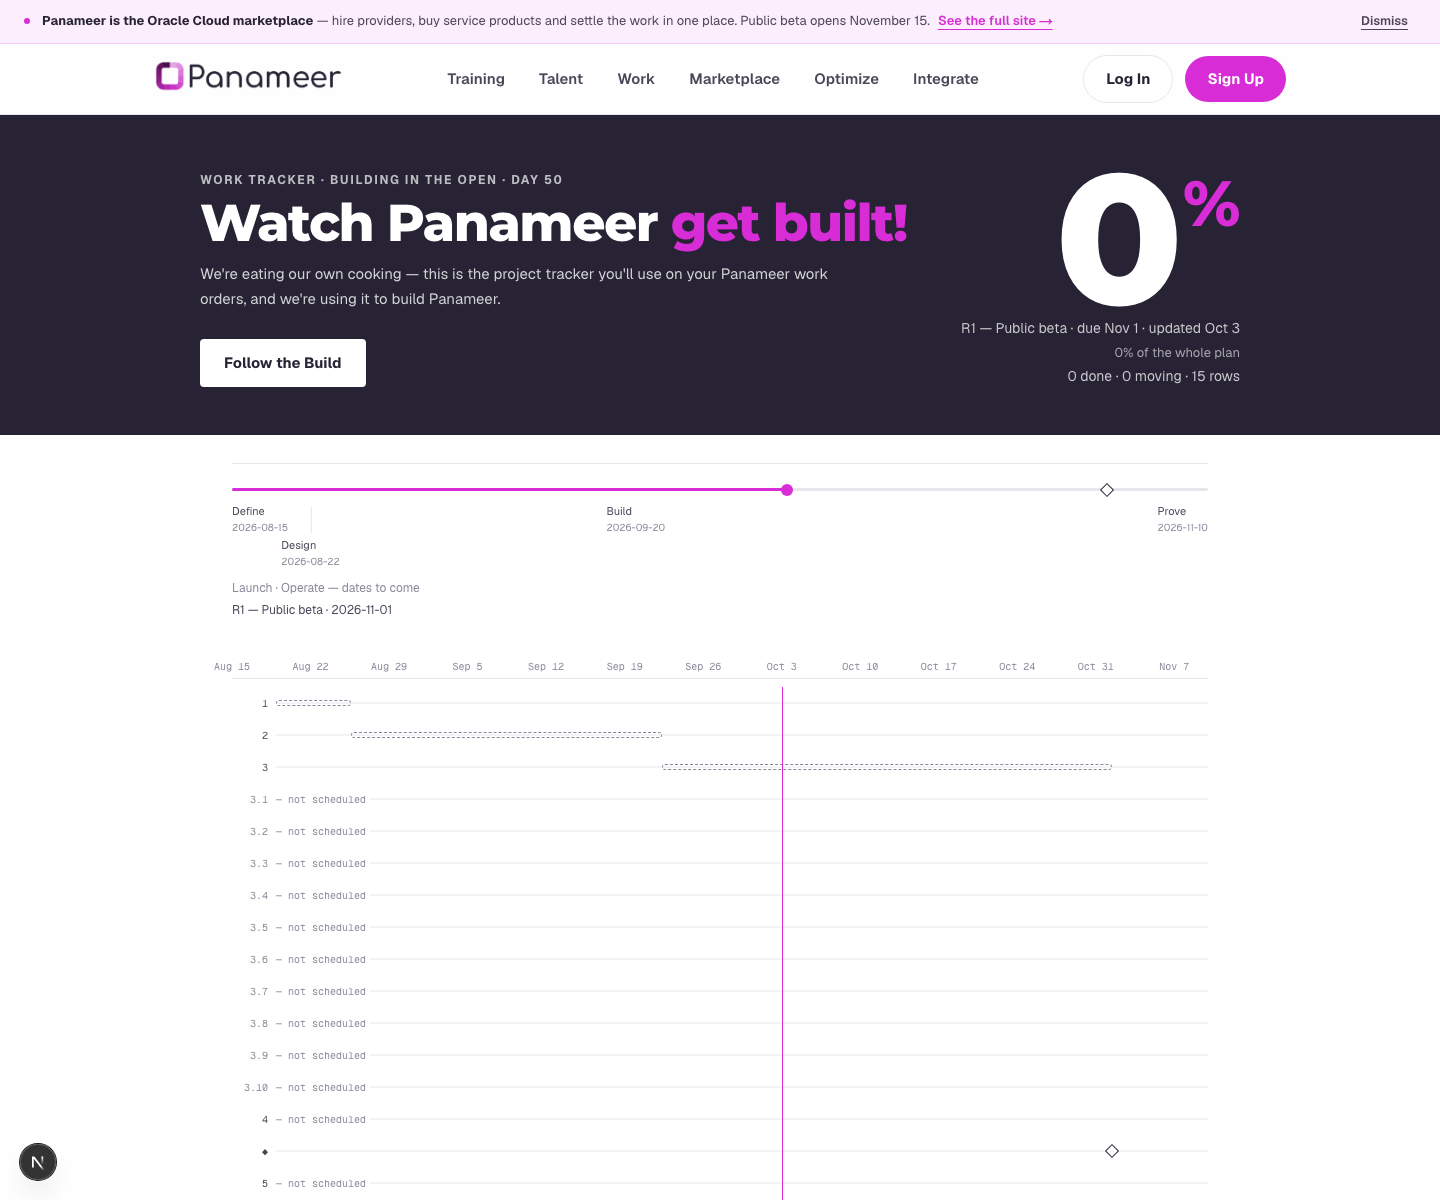
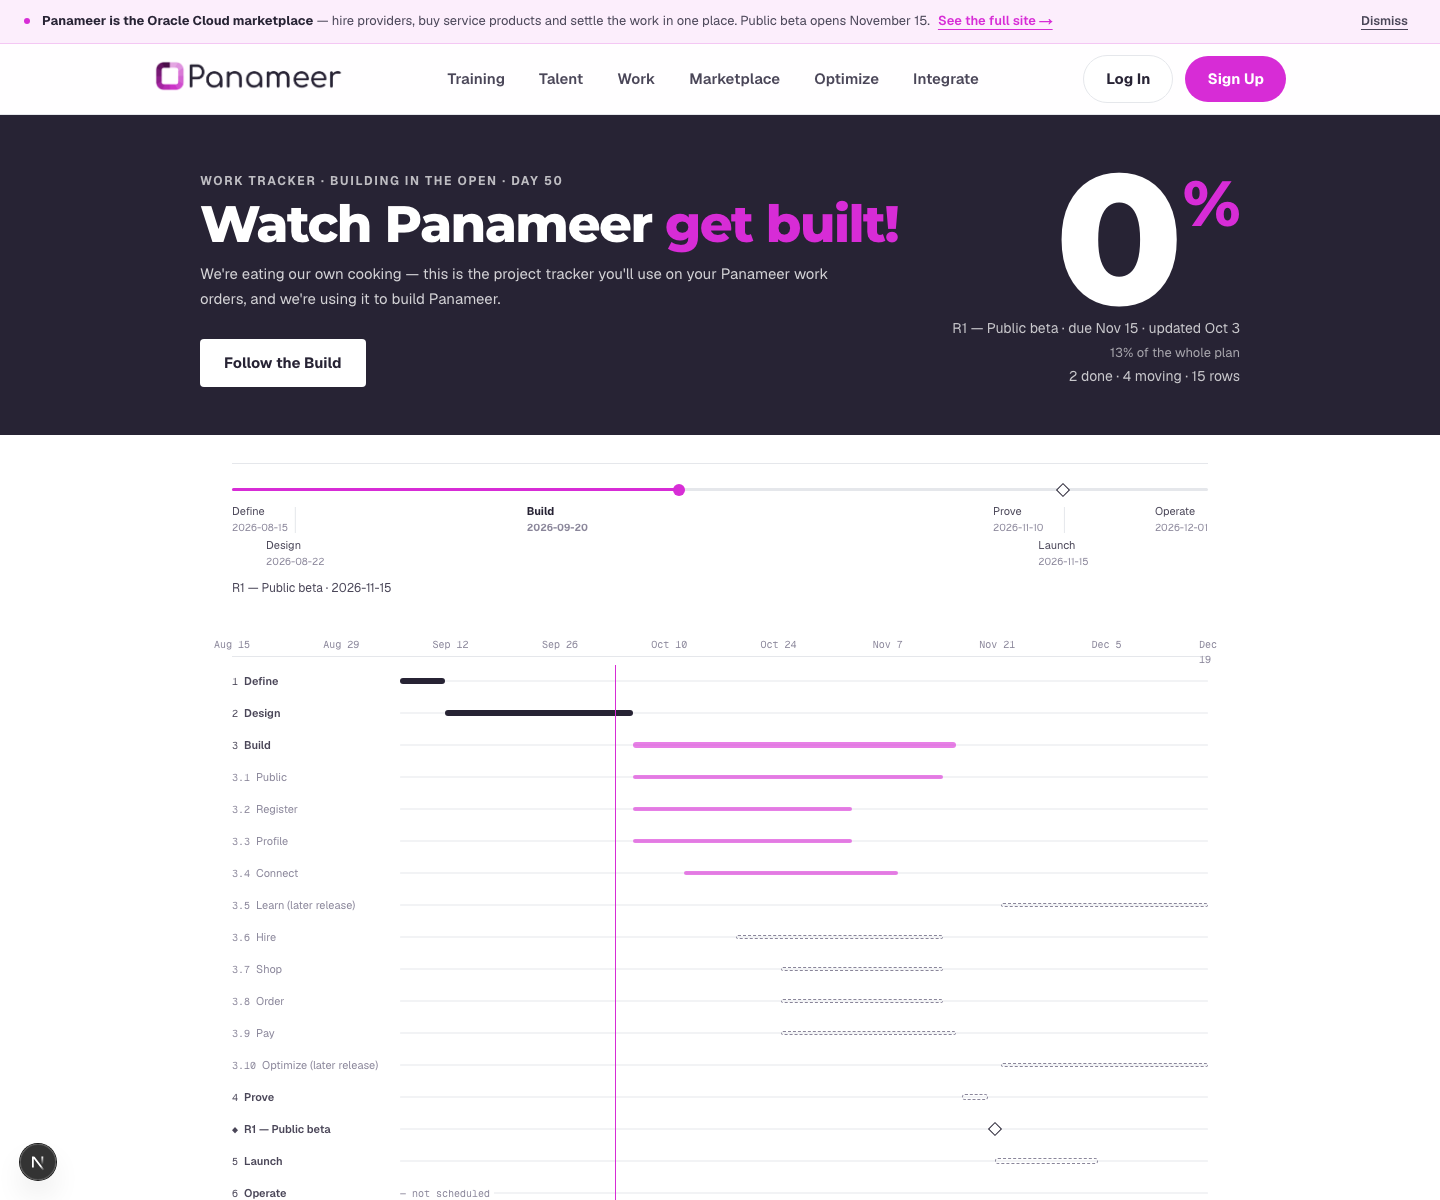
P2-ALL-E795 — R1 scope and date, timeline titles, and a Release column
Urgent, on Scott's authorization, with status.panameer.com live to real visitors.

The live plan: 11 rows tagged R1 — Build, Public, Register, Profile, Connect,
Hire, Shop, Order, Pay, Prove and the R1 — Public beta milestone. Learn,
Optimize, Launch, Operate, Define and Design are deliberately NOT tagged, and
the script names them as excluded rather than leaving it to omission. R1's date
is 2026-11-15 on both `date` and `target_date`, because the public view reads one
falling back to the other and setting half is how the hero and the milestone
start disagreeing — and the milestone ROW's dates moved with it, since those are
a copy taken at template time rather than a live link. Audited.

Two things the data showed on the way in, worth recording: every R1 tag was
ALREADY GONE before I touched anything, and two rows now read "Learn (later
release)" / "Optimize (later release)". That is the shape of an
edit-in-Excel-and-replace-import round trip — which is exactly why Scott asked
for the Release column, and it means the import had silently dropped the one
field it had no column for. A round trip that loses a field is worse than an
import that refuses it, because it looks like it worked.

So the import and the template carry `Release` now. The parser reads a CODE
(`R1`), upper-cased so `r1` and ` R1 ` are one answer; the writer resolves it,
and a code we do not recognise is REPORTED per file rather than guessed or
[…]

diff --git a/src/components/plan/PlanView.tsx b/src/components/plan/PlanView.tsx
@@ -137,15 +137,31 @@ function PlanTimeline({ plan, today }: { plan: PublicPlan; today: string }) {
                   "flex h-8 items-center gap-2 " + (isChild ? "hidden sm:flex" : "")
                 }
               >
+                {/*
+                  ── ⚠⚠ THE LABEL CARRIES THE TITLE (Scott, 2026-10-03) ────────
+                  ⚠ *"Show the row title next to the number"* — `3.2 Register`.
+                  A column of bare `3.2`s makes the reader count rows against the
+                  accordions below to find out what a bar IS.
+                  ⚠⚠ The number stays `font-mono` so the column aligns, and the
+                  title is `truncate` in a fixed gutter so a long row name cannot
+                  push the chart sideways — the no-h-scroll rule is asserted at
+                  390 and 1100.
+                */}
                 <span
                   className={
-                    "w-9 shrink-0 text-right font-mono text-[10px] " +
-                    /** ⚠⚠ SMALL PLAIN NUMBERS IN GREY — no filled badge here.
-                     *  Only the ACCORDION keeps a badge, and only at top level. */
-                    (isChild ? "font-normal text-ink-3" : "text-ink-2")
+                    "flex w-28 shrink-0 items-baseline gap-1.5 overflow-hidden sm:w-40 " +
+                    (isChild ? "text-ink-3" : "text-ink-2")
                   }
+                  title={`${row.number} ${row.title}`}
                 >
-                  {row.number}
+                  <span className="shrink-0 font-mono text-[10px]">{row.number}</span>
+                  <span
+                    className={
+                      "truncate text-[11px] " + (isChild ? "font-normal" : "font-semibold")
+                    }
+                  >
+                    {row.title || "Untitled"}
+                  </span>
                 </span>
                 <span className="relative h-8 flex-1">
                   {/* ⚠ The guide is a hairline track, not a dotted rule — the
@@ -191,6 +207,10 @@ function Bar({
     const at = clamp(pct((row.start ?? row.end)!));
     return (
       <span
+        /** ⚠ A declared hook. The gate used to select `span[title]`, which began
+         *  matching the row LABEL once that gained a tooltip — a selector on a
+         *  styling-adjacent attribute, which is the mistake `E776` recorded. */
+        data-plan-bar="milestone"
         title={`${row.title} — ${row.start ?? row.end}`}
         /** ⚠ An OUTLINED diamond, which is exactly `BuildLine`'s flag — a solid
          *  magenta lozenge was the heaviest mark on the chart. */
@@ -217,6 +237,7 @@ function Bar({
   const w = Math.max(right - left, 0.8);
   return (
     <span
+      data-plan-bar={isChild ? "task" : "top"}
       title={`${row.title} — ${row.start} to ${row.end} · ${row.status}`}
       /** ⚠ 4px for a task, 6px for a top-level row, both `rounded-full` — the
        *  Build Line's weight and its rounded ends, one line per row. */

diff --git a/src/lib/plan/store.ts b/src/lib/plan/store.ts
@@ -487,11 +487,32 @@ export type ImportMode = "replace" | "append";
  */
 export async function writeImportedRows(
   planId: string,
-  imported: readonly { level: 1 | 2; title: string; type: string; start: string | null; end: string | null; status: string; owner: string | null; hours: number | null }[],
+  imported: readonly {
+    level: 1 | 2; title: string; type: string; start: string | null; end: string | null;
+    status: string; owner: string | null; hours: number | null; release?: string | null;
+  }[],
   mode: ImportMode,
   viewer: Viewer,
-): Promise<{ written: number; replaced: number }> {
+): Promise<{ written: number; replaced: number; unknownReleases: string[] }> {
   if (imported.length === 0) throw new PlanError("Nothing in that file could be imported.", "INVALID");
+
+  /**
+   * ── ⚠⚠⚠ THE RELEASE CODE IS RESOLVED HERE (`P2-ALL-E795`) ─────────────────
+   *
+   * ⚠ The spreadsheet carries `R1`; the row stores an id. ⚠⚠ **A CODE WE DO NOT
+   * RECOGNISE IS REPORTED, NEVER GUESSED AND NEVER SILENTLY DROPPED** — silently
+   * dropping the release is precisely what cost the live plan its whole R1 scope
+   * on 2026-10-03.
+   */
+  const releases = await prisma.workTrackerRelease.findMany({ select: { id: true, code: true } });
+  const byCode = new Map(releases.filter((r) => r.code).map((r) => [r.code!.toUpperCase(), r.id]));
+  const unknownReleases = [
+    ...new Set(
+      imported
+        .map((r) => (r.release ?? "").trim().toUpperCase())
+        .filter((c) => c && !byCode.has(c)),
+    ),
+  ];
 
   return prisma.$transaction(async (tx) => {
     let replaced = 0;
@@ -521,6 +542,9 @@ export async function writeImportedRows(
         status: r.status,
         owner: r.owner,
         hours: r.hours,
+        /** ⚠⚠ THE RELEASE SURVIVES THE ROUND TRIP (`E795`). An unrecognised code
+         *  lands `null` and is reported in `unknownReleases` — never guessed. */
+        release_id: r.release ? byCode.get(r.release.trim().toUpperCase()) ?? null : null,
         updated_by: viewer.userId,
       };
       if (r.level === 1) {
@@ -539,6 +563,6 @@ export async function writeImportedRows(
     }
 
     await tx.plan.update({ where: { id: planId }, data: { updated_by: viewer.userId } });
-    return { written, replaced };
+    return { written, replaced, unknownReleases };
   });
 }

diff --git a/e2e-plan/buildline.spec.ts b/e2e-plan/buildline.spec.ts
@@ -38,22 +38,33 @@ test("the Build Line is drawn from the plan, not the AIM phase dates", async ({ 
 test("the Gantt is lighter: 4px task bars, 6px top-level, rounded", async ({ page }) => {
   await page.goto("/status", { waitUntil: "domcontentloaded" });
   await page.setViewportSize({ width: 1280, height: 1000 });
-  const bars = await page.locator('[aria-label="Plan timeline"] li span[title]').evaluateAll((els) =>
+  /** ⚠ `[data-plan-bar]` — a declared hook. Selecting `span[title]` matched the
+   *  row label once it gained a tooltip, which is the same class of mistake as
+   *  `E776`'s `.tabular-nums`. */
+  const bars = await page.locator('[aria-label="Plan timeline"] [data-plan-bar]').evaluateAll((els) =>
     els.map((e) => {
       const cs = getComputedStyle(e);
-      return { h: Math.round(parseFloat(cs.height)), r: cs.borderRadius, t: (e.getAttribute("title") ?? "").slice(0, 18) };
+      return {
+        h: Math.round(parseFloat(cs.height)),
+        r: cs.borderRadius,
+        kind: e.getAttribute("data-plan-bar") ?? "",
+      };
     }),
   );
   expect(bars.length, "no bars to measure").toBeGreaterThan(3);
   /** ⚠ 4px or 6px for a bar; the milestone diamond is 10px and is excluded by
    *  its own rotation class, so it is allowed through here. */
-  const bad = bars.filter((b) => ![4, 6, 10].includes(b.h));
-  expect(bad, `bars must be 4px, 6px (or a 10px diamond): ${JSON.stringify(bad)}`).toEqual([]);
+  const bad = bars.filter((b) =>
+    b.kind === "milestone" ? b.h !== 10 : b.kind === "task" ? b.h !== 4 : b.h !== 6,
+  );
+  expect(bad, `task bars 4px · top-level 6px · diamonds 10px: ${JSON.stringify(bad)}`).toEqual([]);
   /** ⚠⚠ THE DIAMOND IS EXCLUDED, AND THAT IS NOT A LOOSENING. A milestone mark
    *  is a ROTATED SQUARE — `BuildLine`'s own flag is the same shape — so square
    *  corners are correct there and rounding it would make it a dot. ⚠ Only the
    *  BARS are asserted rounded. */
-  const barsOnly = bars.filter((b) => b.h !== 10);
+  /** ⚠ By KIND now, not by height — a diamond is excluded because it IS a
+   *  diamond, not because it happens to be 10px. */
+  const barsOnly = bars.filter((b) => b.kind !== "milestone");
   expect(barsOnly.length, "no 4/6px bars to check for rounding").toBeGreaterThan(2);
   expect(
     barsOnly.every((b) => b.r !== "0px"),

diff --git a/scripts/check-plan.ts b/scripts/check-plan.ts
@@ -416,6 +416,42 @@ async function main() {
     "unlike a bad date, a bad type has no safe default",
   );
 
+  /* ── the Release column (`E795`) ──────────────────────────────────────── */
+
+  /**
+   * ⚠⚠⚠ THE COLUMN EXISTS BECAUSE ITS ABSENCE COST THE LIVE PLAN ITS R1 SCOPE
+   * on 2026-10-03 — an edit-in-Excel-and-replace round trip through a template
+   * that could not carry the release, so the import silently dropped it.
+   */
+  check(
+    "14z — Release is one of the template's columns",
+    (IMPORT_COLUMNS as readonly string[]).includes("Release"),
+    IMPORT_COLUMNS.join(","),
+  );
+  const withRel = readGrid(parseCsv(`${header}\n1,Build,phase,,,,,,R1\n2,Learn,task,,,,,,`));
+  check(
+    "14aa — a release code is read, and a blank one is null",
+    withRel.rows[0]?.release === "R1" && withRel.rows[1]?.release === null,
+    JSON.stringify(withRel.rows.map((r) => ({ t: r.title, rel: r.release }))),
+  );
+  check(
+    "14ab — the code is upper-cased, so `r1` and `R1` are one answer",
+    readGrid(parseCsv(`${header}\n1,A,phase,,,,,, r1 `)).rows[0]?.release === "R1",
+    JSON.stringify(readGrid(parseCsv(`${header}\n1,A,phase,,,,,, r1 `)).rows[0]),
+  );
+  /**
+   * ⚠⚠ A FILE WITHOUT THE COLUMN STILL IMPORTS — the column is additive, and an
+   * older spreadsheet must not start failing. ⚠ Its rows arrive untagged, which
+   * is honest: the file does not say.
+   */
+  const oldHeader = IMPORT_COLUMNS.filter((c) => c !== "Release").join(",");
+  const noRelCol = readGrid(parseCsv(`${oldHeader}\n1,Build,phase,,,,,`));
+  check(
+    "14ac — a file with no Release column still imports, untagged",
+    noRelCol.rows.length === 1 && noRelCol.rows[0].release === null && noRelCol.problems.length === 0,
+    JSON.stringify(noRelCol),
+  );
+
   const orphan = readGrid(parseCsv(`${header}\n2,Orphan,task,,,,,`));
   check(
     "14w — a level-2 row with nothing above it is promoted, and said",

diff --git a/src/lib/plan/import.ts b/src/lib/plan/import.ts
@@ -28,6 +28,19 @@ export const IMPORT_COLUMNS = [
   "Status",
   "Owner",
   "Hours",
+  /**
+   * ── ⚠⚠⚠ `Release` EXISTS BECAUSE ITS ABSENCE COST THE LIVE PLAN'S SCOPE ────
+   *
+   * ⚠ **SCOTT, 2026-10-03:** *"Add a Release column to the plan import +
+   * template so this doesn't recur."* ⚠⚠ Measured the same day: the live build
+   * plan had **every R1 tag gone** and two rows renamed `… (later release)` —
+   * the shape of an edit-in-Excel-and-replace-import round trip through a
+   * template that could not carry the release. The import silently dropped the
+   * one field it had no column for.
+   * ⚠⚠⚠ **A ROUND TRIP THAT LOSES A FIELD IS WORSE THAN AN IMPORT THAT REFUSES
+   * IT**, because it looks like it worked.
+   */
+  "Release",
 ] as const;
 
 export type ImportedRow = {
@@ -39,6 +52,12 @@ export type ImportedRow = {
   status: RowStatus;
   owner: string | null;
   hours: number | null;
+  /**
+   * ⚠⚠ THE RELEASE **CODE** (`R1`), NOT AN ID. The parser is pure and has no
+   * database; `writeImportedRows` resolves the code when it writes. ⚠ A
+   * spreadsheet full of uuids is also not something anybody can edit by hand.
+   */
+  release: string | null;
 };
 
 export type RowProblem = {
@@ -244,6 +263,10 @@ export function readGrid(grid: string[][]): ParsedPlanFile {
       status,
       owner: cell(r, "Owner") || null,
       hours,
+      /** ⚠ Upper-cased and trimmed, so `r1`, ` R1 ` and `R1` are one answer.
+       *  ⚠⚠ An UNKNOWN code is reported per row by the writer, not dropped
+       *  here — the parser does not know which releases exist. */
+      release: cell(r, "Release").toUpperCase() || null,
     });
   }
 

diff --git a/e2e-plan/import.spec.ts b/e2e-plan/import.spec.ts
@@ -164,8 +164,25 @@ test("the template is a round trip — it imports cleanly into a plan", async ({
   });
   await page.getByRole("radio", { name: /Add these rows/ }).check();
   await page.getByRole("button", { name: "Import the Plan" }).click();
-  await expect(page.getByText(/Imported 4 rows/)).toBeVisible({ timeout: 60_000 });
+  await expect(page.getByText(/Imported 5 rows/)).toBeVisible({ timeout: 60_000 });
   /** ⚠ And with no problems — the template must not warn about itself. */
   await expect(page.getByText(/need(s)? a look/)).toHaveCount(0);
-  await numbersEventually(page, ["1", "1.1", "1.2", "◆"]);
+  await numbersEventually(page, ["1", "1.1", "1.2", "1.3", "◆"]);
+
+  /**
+   * ⚠⚠⚠ THE RELEASE SURVIVES THE ROUND TRIP (`E795`). This is the assertion the
+   * live plan needed and did not have: on 2026-10-03 an edit-and-replace import
+   * silently dropped every R1 tag, because the template had no Release column.
+   * ⚠ Four of the template's five rows carry `R1`; the `Learn` example carries
+   * none, so the pair proves the column is read rather than defaulted.
+   */
+  const plan = await planDb.plan.findUnique({ where: { owner_key: OWNER }, select: { id: true } });
+  const rows = await planDb.planRow.findMany({
+    where: { plan_id: plan!.id },
+    select: { title: true, release_id: true },
+  });
+  const tagged = rows.filter((r) => r.release_id !== null).map((r) => r.title).sort();
+  const untagged = rows.filter((r) => r.release_id === null).map((r) => r.title).sort();
+  expect(tagged, `tagged: ${JSON.stringify(tagged)}`).toHaveLength(4);
+  expect(untagged, "the Learn example must arrive untagged").toEqual(["Learn"]);
 });

diff --git a/src/app/api/admin/plan/template/route.ts b/src/app/api/admin/plan/template/route.ts
@@ -21,10 +21,14 @@ export async function GET() {
   sheet.getRow(1).font = { bold: true };
   /** ⚠⚠ THE EXAMPLE ROWS ARE THE DOCUMENTATION. Level 1/2 and the three types
    *  are hard to explain in a heading and obvious in two lines of example. */
-  sheet.addRow([1, "Build", "phase", "2026-09-20", "2026-11-01", "In progress", "Scott", ""]);
-  sheet.addRow([2, "Public", "task", "2026-09-20", "2026-09-30", "Done", "Scott", 40]);
-  sheet.addRow([2, "Register", "task", "", "", "Planned", "", ""]);
-  sheet.addRow([1, "R1 — Public beta", "milestone", "2026-11-15", "2026-11-15", "Planned", "", ""]);
+  /** ⚠⚠ THE EXAMPLES NOW CARRY `R1` IN THE RELEASE COLUMN. The template is the
+   *  documentation, and a blank column teaches people to leave it blank — which
+   *  is how the live plan lost its whole R1 scope on 2026-10-03. */
+  sheet.addRow([1, "Build", "phase", "2026-09-20", "2026-11-01", "In progress", "Scott", "", "R1"]);
+  sheet.addRow([2, "Public", "task", "2026-09-20", "2026-09-30", "Done", "Scott", 40, "R1"]);
+  sheet.addRow([2, "Register", "task", "", "", "Planned", "", "", "R1"]);
+  sheet.addRow([2, "Learn", "task", "", "", "Planned", "", "", ""]);
+  sheet.addRow([1, "R1 — Public beta", "milestone", "2026-11-15", "2026-11-15", "Planned", "", "", "R1"]);
   sheet.columns.forEach((c) => {
     c.width = 18;
   });

diff --git a/src/app/api/admin/plan/import/route.ts b/src/app/api/admin/plan/import/route.ts
@@ -66,7 +66,15 @@ export async function POST(request: Request) {
     const result = await writeImportedRows(plan.id, parsed.rows, mode, gate);
     /** ⚠ A PARTIAL success is reported as a success WITH its problems — 39 of 40
      *  rows imported is a result, not a failure. */
-    return NextResponse.json({ ok: true, ...result, problems: parsed.problems });
+    const problems = [...parsed.problems];
+    /** ⚠⚠⚠ AN UNRECOGNISED RELEASE CODE IS SAID OUT LOUD. The rows still import;
+     *  they simply arrive untagged, and the person is told which code we did not
+     *  know — because silently dropping the release is what cost the live plan
+     *  its R1 scope. */
+    for (const code of result.unknownReleases) {
+      problems.push({ line: 1, message: `Release "${code}" isn't one we know — those rows came in with no release.` });
+    }
+    return NextResponse.json({ ok: true, ...result, problems });
   } catch (e) {
     if (e instanceof PlanError) return NextResponse.json({ error: e.message }, { status: 400 });
     console.error("[plan:import] failed", e);
